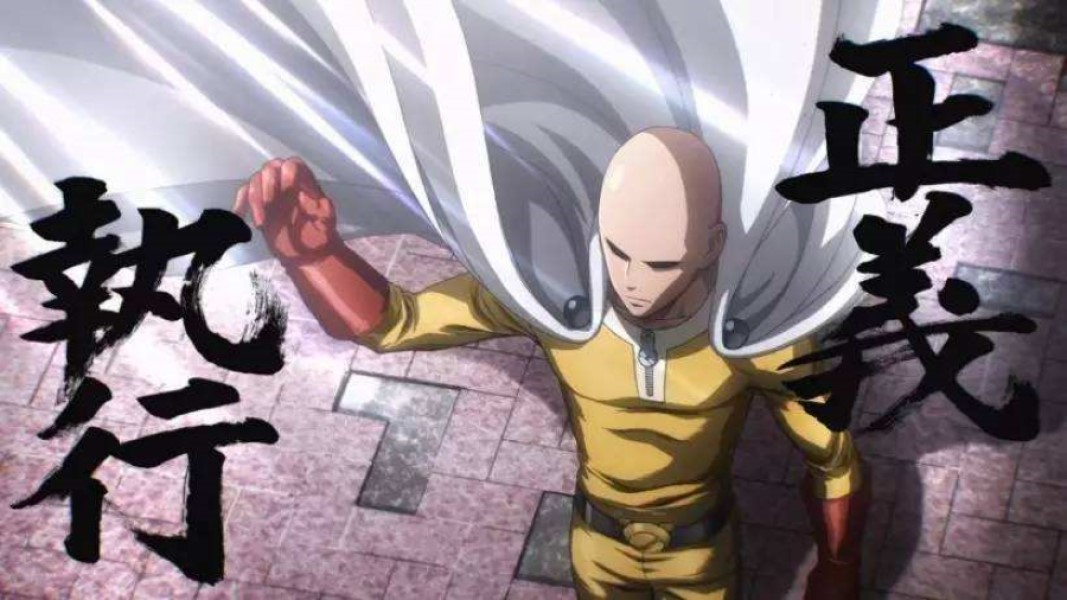
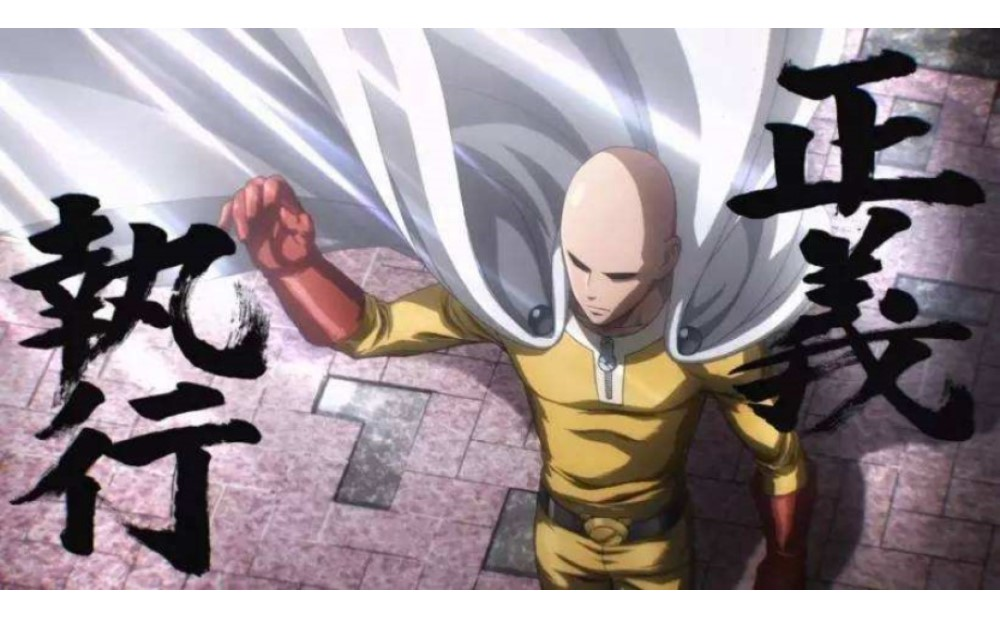
图片统一大小

diff --git a/src/components/Category/index.vue b/src/components/Category/index.vue
@@ -1,12 +1,10 @@
 <template>
-  <section>
-    <banner-item
-      :title="category.name"
-      :description="category.description"
-      :img="category.img"
-      :doc="category.doc"
-    ></banner-item>
-  </section>
+  <banner-item
+    :title="category.name"
+    :description="category.description"
+    :img="category.img"
+    :doc="category.doc"
+  ></banner-item>
   <section>
     <div class="posts">
       <article-item

diff --git a/src/components/Main/Header.vue b/src/components/Main/Header.vue
@@ -10,7 +10,7 @@
       frameborder="0"
       scrolling="0"
       title="GitHub"
-      width="10%"
+      width="100px"
     ></iframe>
     <!-- <ul class="icons">
       <li>

diff --git a/public/image/README.md b/public/image/README.md
@@ -1,0 +1,4 @@
+image size
+黄金比例 1:0.618
+1000 618
+500 309
